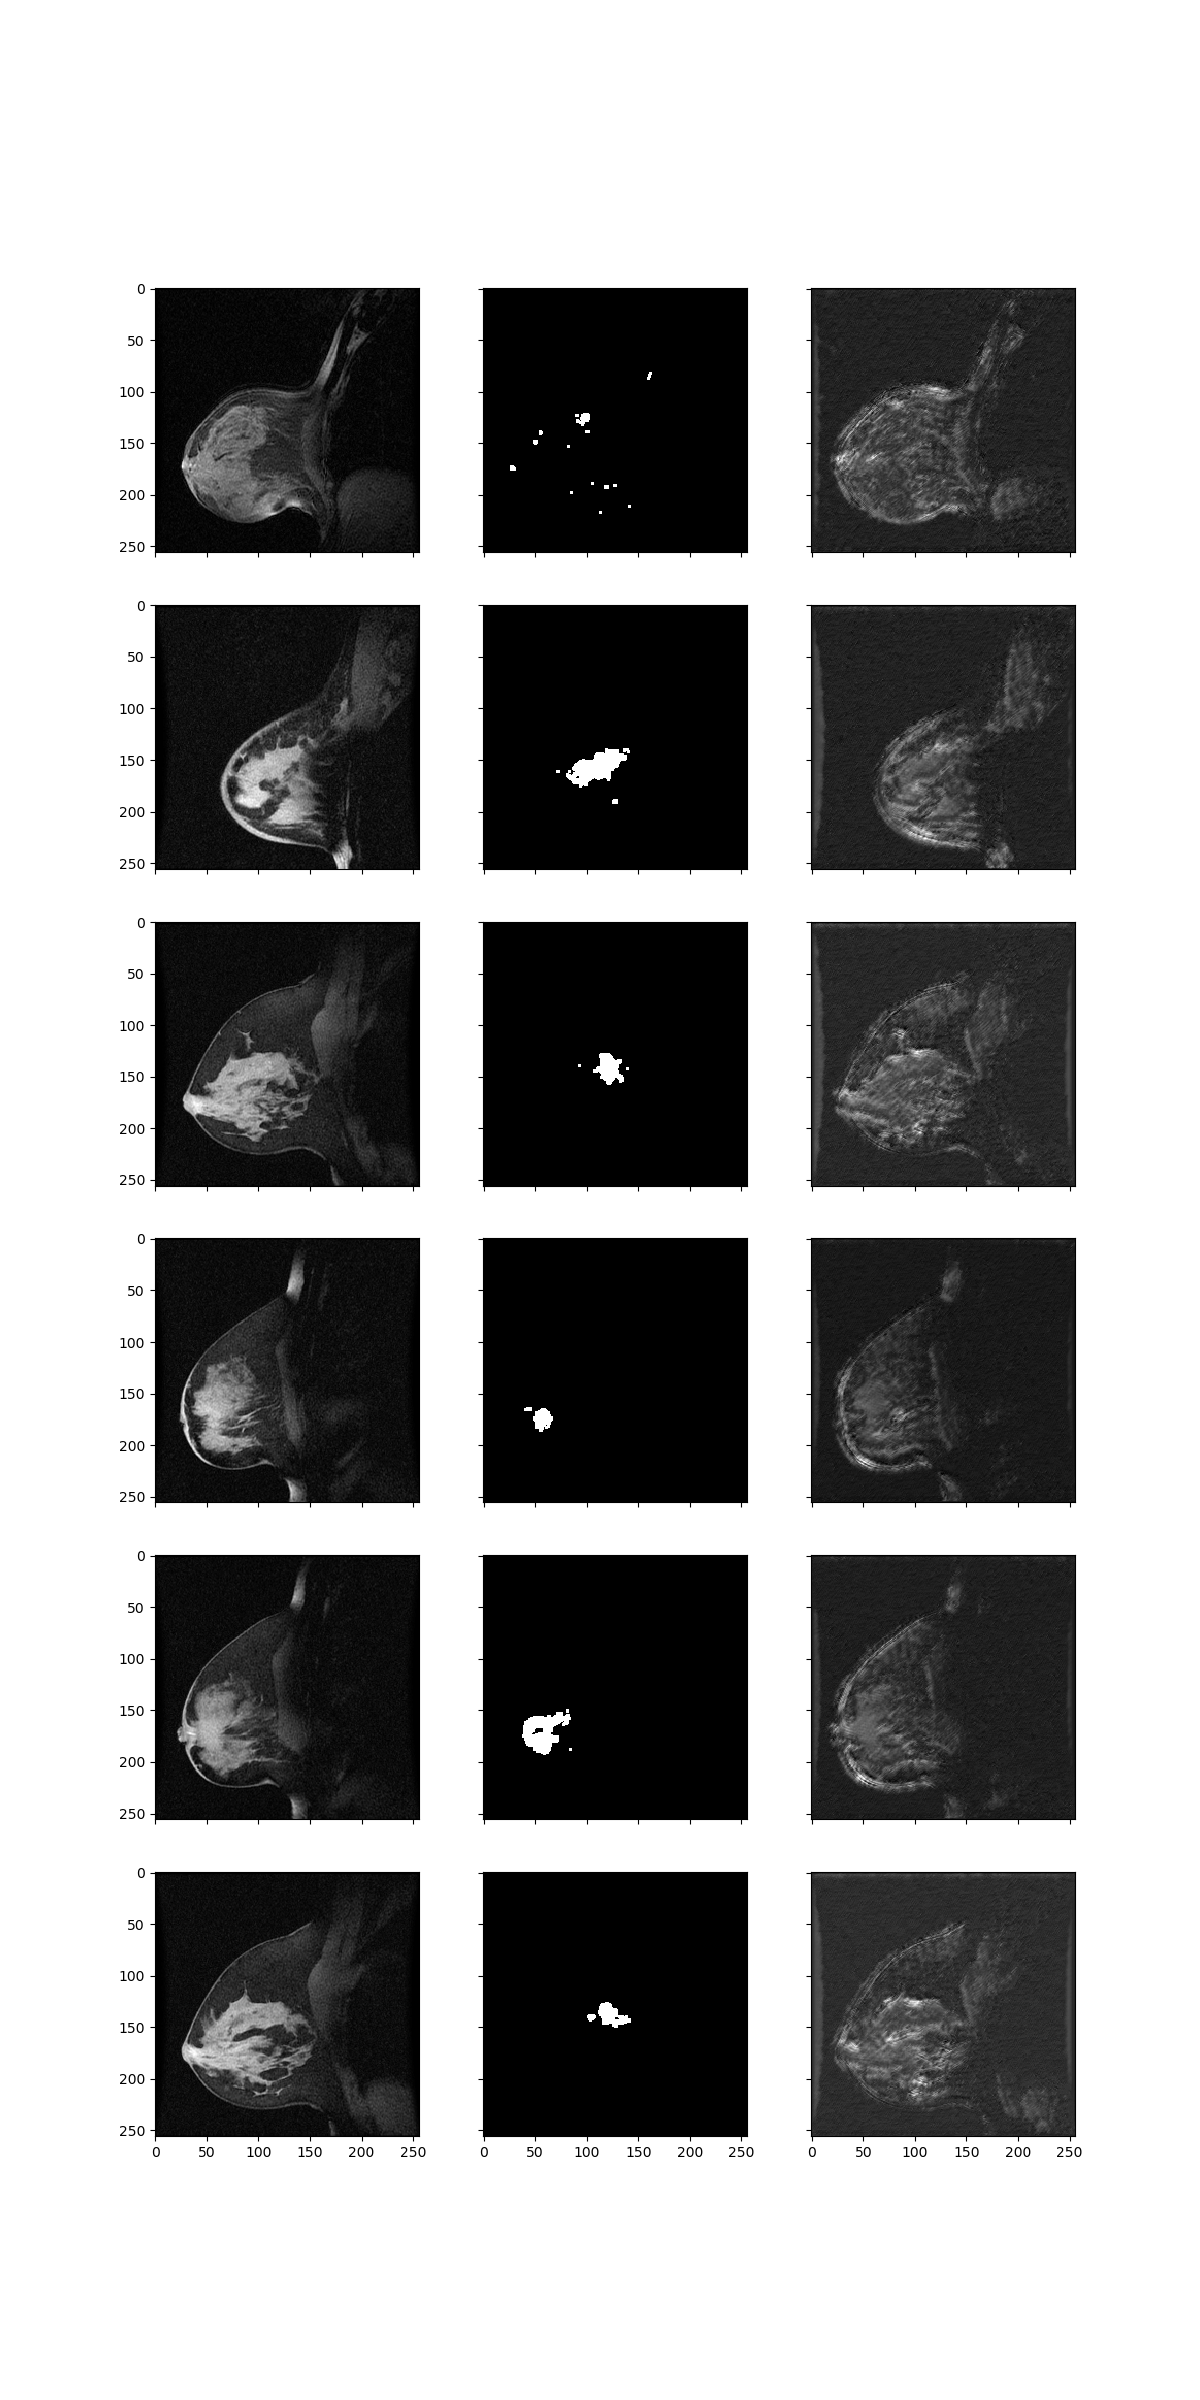
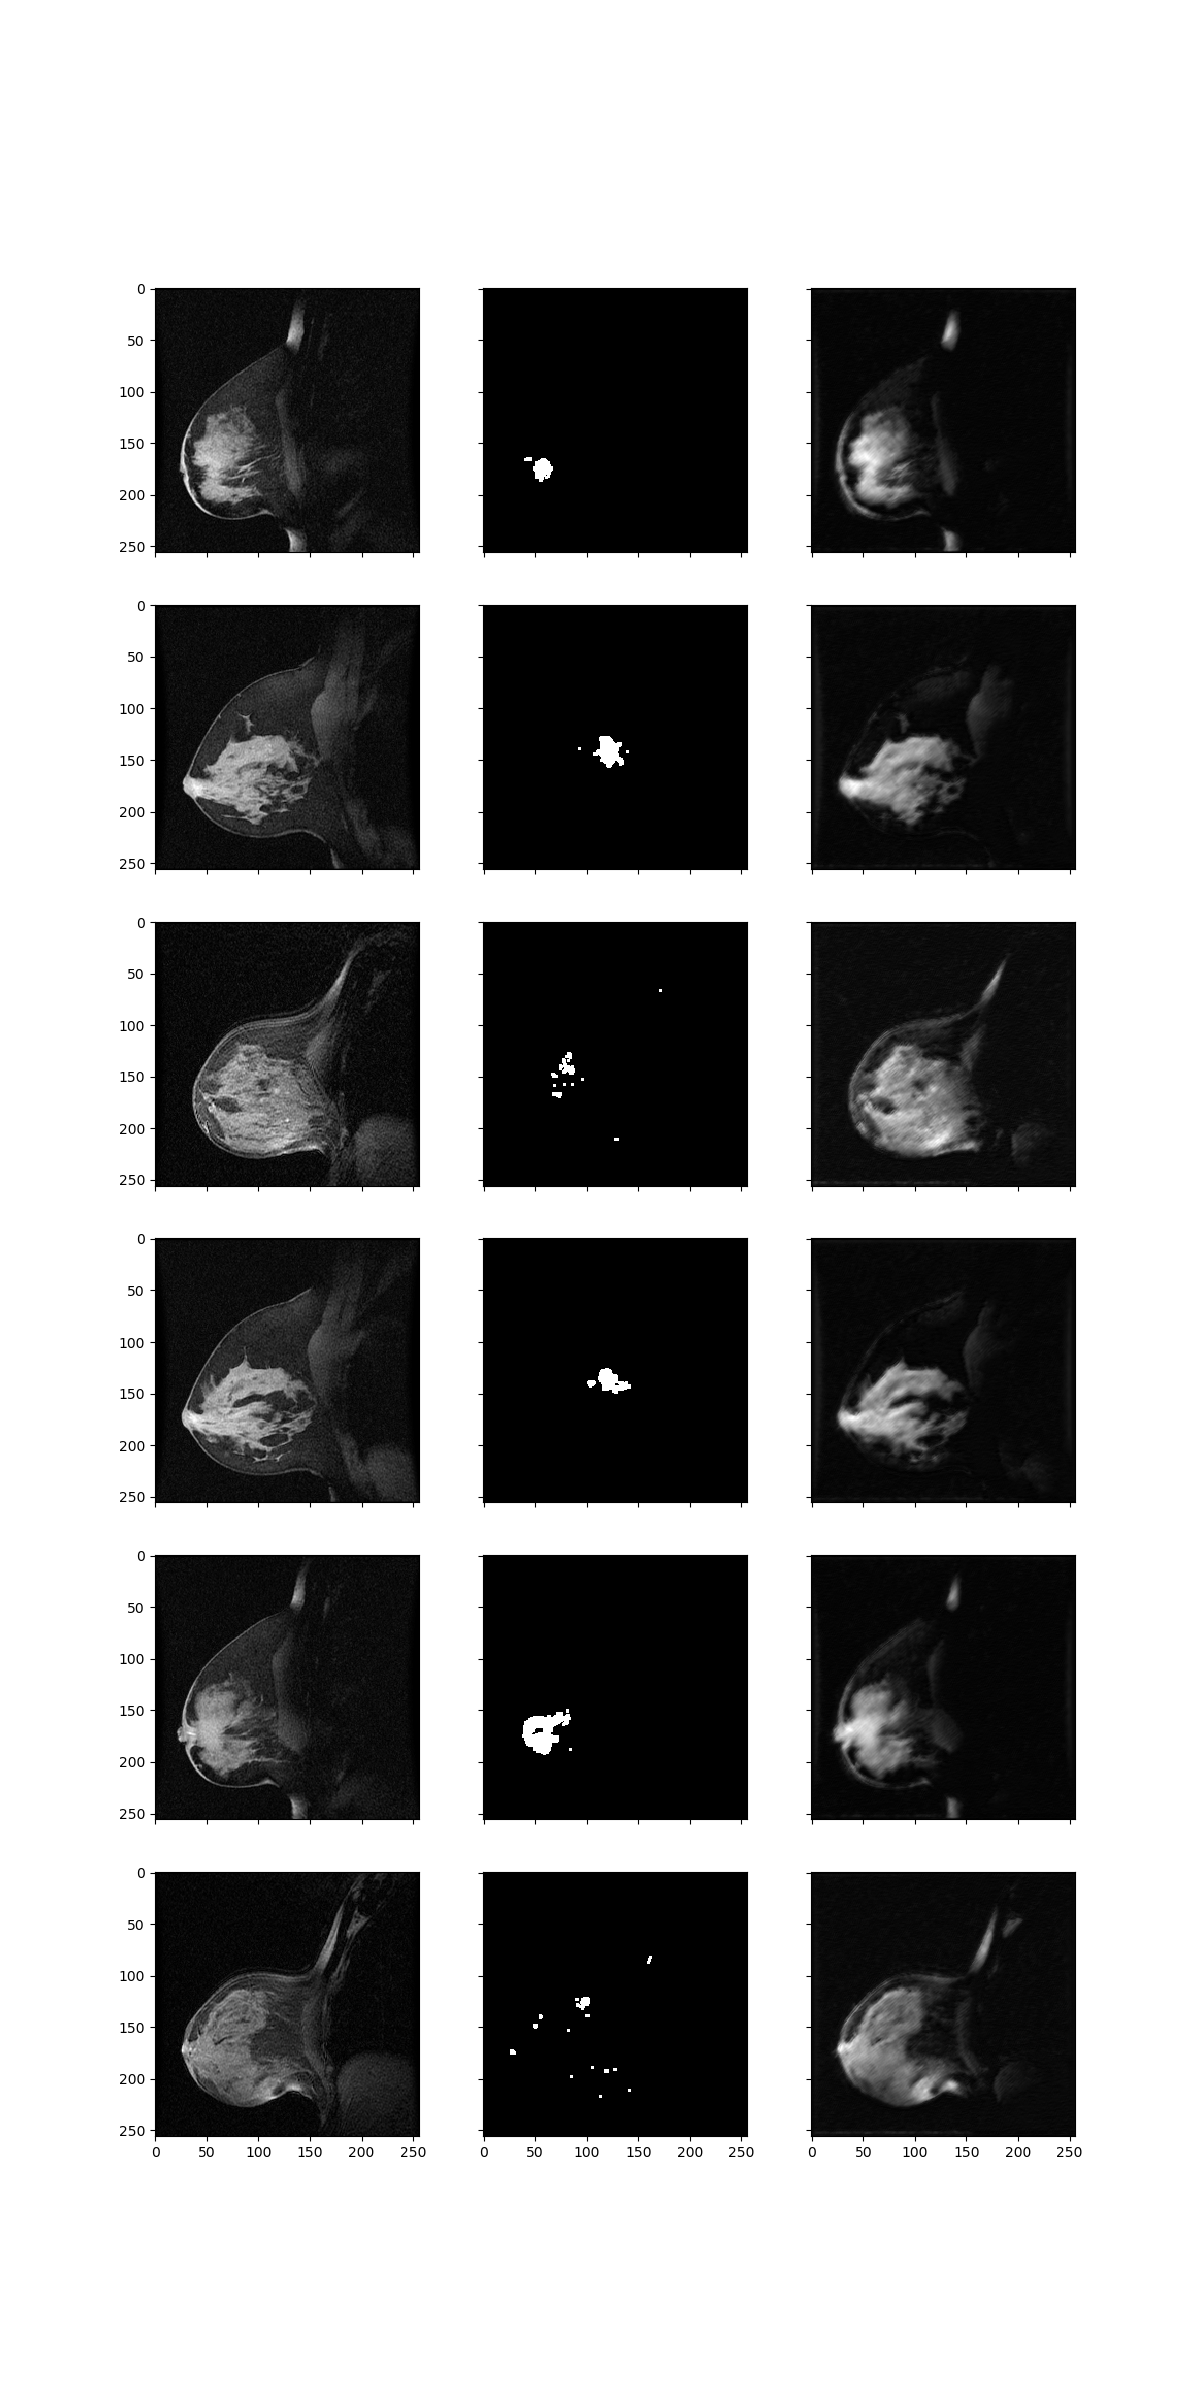
Change DICE coeff calculation, Fix bug with image prediction Creating BASH file for running

diff --git a/Main_Model.py b/Main_Model.py
@@ -108,7 +108,6 @@ def train_model(model, optimizer, scheduler, dataloaders, args, writer, folder_n
             # deep copy the model
             if phase == 'val' and epoch_loss < best_loss:
                 print("saving best model")
-                best_DICE_loss = metrics['dice']
                 best_loss = epoch_loss
                 best_model_wts = copy.deepcopy(model.state_dict())
 
@@ -126,7 +125,7 @@ def train_model(model, optimizer, scheduler, dataloaders, args, writer, folder_n
     # load best model weights
     model.load_state_dict(best_model_wts)
     save_model(args, args.exp_dir, model, optimizer, best_loss,folder_name)
-    return model, best_DICE_loss
+    return model
 
 device = torch.device("cuda:0" if torch.cuda.is_available() else "cpu")
 print(device)
@@ -179,7 +178,7 @@ def main(args):
     exp_lr_scheduler = lr_scheduler.StepLR(optimizer_ft, step_size=25, gamma=0.1)
 
     if args.eval != True:
-        model, best_DICE_loss = train_model(model, optimizer_ft, exp_lr_scheduler, dataloaders, args, writer, folder_name, num_epochs=args.num_epochs)
+        model = train_model(model, optimizer_ft, exp_lr_scheduler, dataloaders, args, writer, folder_name, num_epochs=args.num_epochs)
     else:
         model.load_state_dict(torch.load(os.path.join(args.exp_dir, args.eval_folder, 'Model.pt')))
 
@@ -255,9 +254,14 @@ def visualize(args, model, dataloaders, writer):
             save_as_unified_grid(ScanLabelPred, 'Unified Visualization', Unified)
 
             #prediction binarization
-            pred = torch.where(pred > 2, 255 * torch.ones_like(pred), torch.zeros_like(pred))
+            PredBinarizationForDice = pred[Unified,:].unsqueeze(0)
+            PredBinarizationForDice -= PredBinarizationForDice.min()
+            PredBinarizationForDice /= PredBinarizationForDice.max()
+            PredBinarizationForDice = 255*PredBinarizationForDice
 
-            dice = 1 - dice_loss(pred[Unified,:].unsqueeze(0), labels[Unified,:].unsqueeze(0))
+            PredBinarizationForDice = torch.where(PredBinarizationForDice > 2, 255 * torch.ones_like(PredBinarizationForDice), torch.zeros_like(PredBinarizationForDice))
+
+            dice = 1 - dice_loss(PredBinarizationForDice, labels[Unified,:].unsqueeze(0))
             writer.add_text('Dice', 'Dice loss calculation: {}'.format(dice), Unified)
 
             # save_as_embbeded_seg(inputs[Unified,:],labels[Unified,:],pred[Unified,:])
